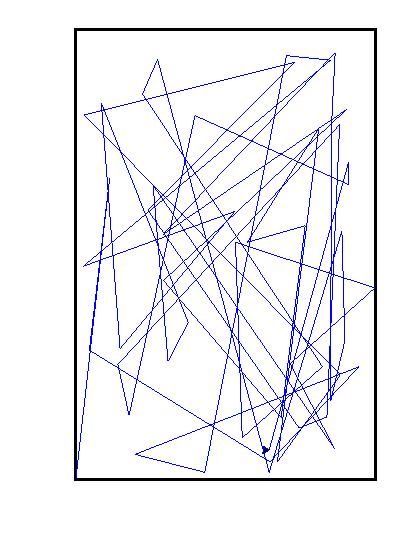
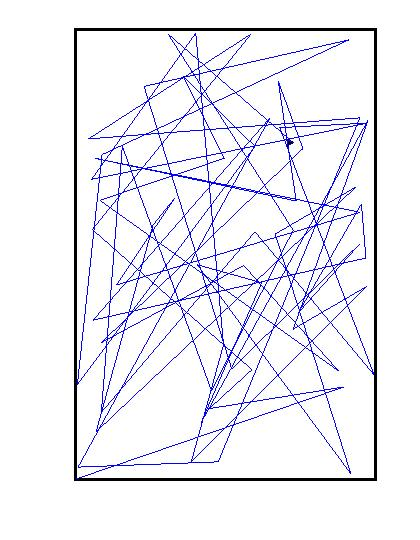
Added Noll_90

diff --git a/2M/esdn/DigitalArt/codes/noll_90.py b/2M/esdn/DigitalArt/codes/noll_90.py
@@ -17,6 +17,10 @@ def rectangle(t,l1,l2):
         t.forward(l2)
         t.left(90)
 
+def triangle_rectangle(t,x1,y1,x2,y2):
+    t.goto(x1,y2)
+    t.goto(x2,y2)
+
 t = Turtle()
 t.speed(100)
 
@@ -33,18 +37,28 @@ rectangle(t,xmax-xmin,ymax-ymin)
 t.pensize(1)
 t.pencolor('blue')
 
+t.penup()
+xold = int(xmin/2)
+yold = int(ymin/2)
+t.goto(xold, yold)
+t.pendown()
+
+# Boucle du dessin
 for i in range(60):
     x = randint(1,(xmax-xmin))+xmin
     y = randint(1,(ymax-ymin))+ymin
     if x >= xmin-1 and x <= xmax+1 and y >= ymin-1 and y <= ymax+1 :
-        t.goto(x,y)
+#        t.goto(x,y)
+        triangle_rectangle(t,xold,yold,x,y)
+        xold = x
+        yold = y
     else:
         i -= 1
         
         
 screen = Screen()
 canvas = screen.getcanvas()
-fileName = "noll_2024"
+fileName = "noll_90_2024"
 canvas.postscript(file=fileName+'.eps', width=(xmax-xmin)*1.4, height=(ymax-ymin)*1.2)
 img = Image.open(fileName + '.eps') 
 img.save(fileName + '.jpg')  
